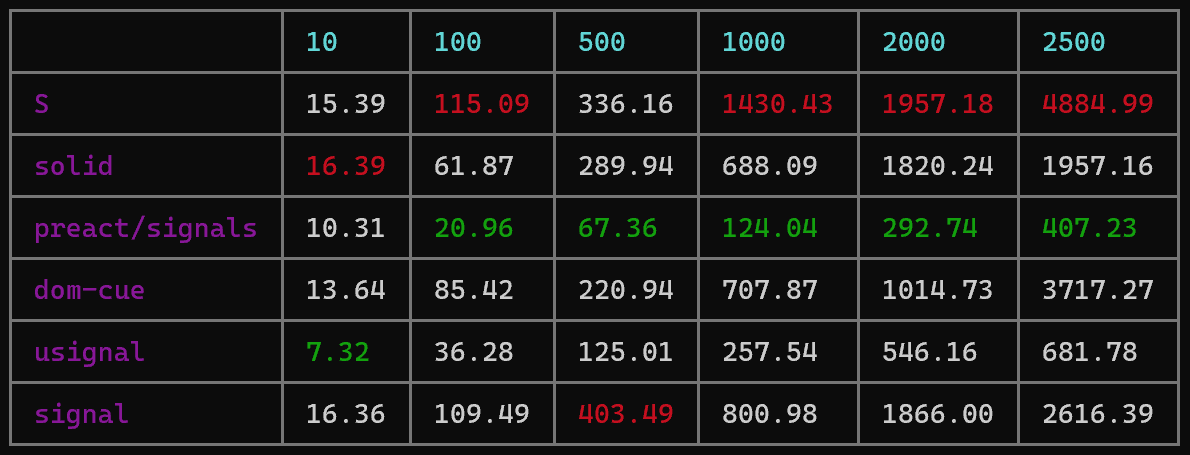
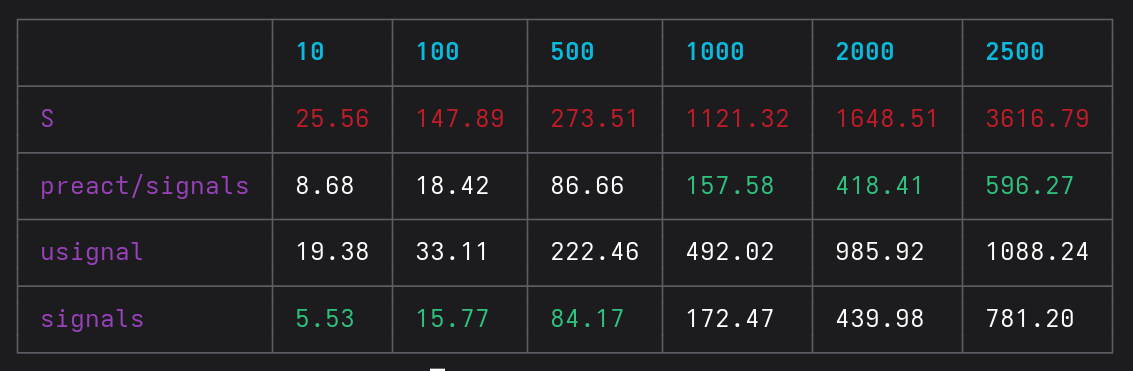
updated benchmarks and screenshot

Changed region(s): [[0.0, 0.0, 1.0, 1.0], [0.4634, 0.4744, 0.556, 0.5337]]

diff --git a/test/benchmark.js b/test/benchmark.js
@@ -47,15 +47,15 @@
  async function main() {
    const report = {
      S: { fn: runS, runs: [] },
-     solid: { fn: runSolid, runs: [] },
+    //  solid: { fn: runSolid, runs: [] },
      'preact/signals': { fn: runPreact, runs: [] },
-     'dom-cue': { fn: runDOMCue, runs: [] },
+    //  'dom-cue': { fn: runDOMCue, runs: [] },
      // TODO: running too slow so I need to leave it out for now - maybe something is wrong.
      // sinuous: { fn: runSinuous, runs: [] },
      // cellx: { fn: runCellx, runs: [] },
      usignal: { fn: runUsignal, runs: [] },
-     signal: { fn: runSignal, runs: [] },
-     signals: { fn: runPreact, runs: [] },
+    //  signal: { fn: runSignal, runs: [] },
+     signals: { fn: runSignals, runs: [] },
      // alien: { fn: runAlien, runs: [] },
    };
  
@@ -247,6 +247,43 @@
      done(isSolution(layers, solution) ? endTime : -1);
    });
  }
+
+ function runSignals(layers, done) {
+  const a = signals.signal(1),
+    b = signals.signal(2),
+    c = signals.signal(3),
+    d = signals.signal(4);
+
+  const start = { a, b, c, d };
+
+  let layer = start;
+
+  for (let i = layers; i--; ) {
+    layer = ((m) => {
+      const props = {
+        a: signals.computed(() => rand % 2 ? m.b.value : m.c.value),
+        b: signals.computed(() => m.a.value - m.c.value),
+        c: signals.computed(() => m.b.value + m.d.value),
+        d: signals.computed(() => m.c.value),
+      };
+
+      return props;
+    })(layer);
+  }
+
+  const startTime = performance.now();
+
+  const run = BATCHED ? signals.batch : (fn) => fn();
+  run(() => {
+    (a.value = 4), (b.value = 3), (c.value = 2), (d.value = 1);
+
+    const end = layer;
+    const solution = [end.a.value, end.b.value, end.c.value, end.d.value];
+    const endTime = performance.now() - startTime;
+
+    done(isSolution(layers, solution) ? endTime : -1);
+  });
+}
 
  function runDOMCue(layers, done) {
   const a = dom_cue.signal(1),

diff --git a/README.md b/README.md
@@ -95,6 +95,8 @@ npm run benchmark
 
 ![current status](./test/benchmark.png)
 
+About last **signals** row: [@webreflection/signals](https://github.com/WebReflection/signals#readme) is my latest minimalistic attempt and the last one shown in above benchmark as drop-in replacement for Preact benchmark.
+
 
 ## Tests
 